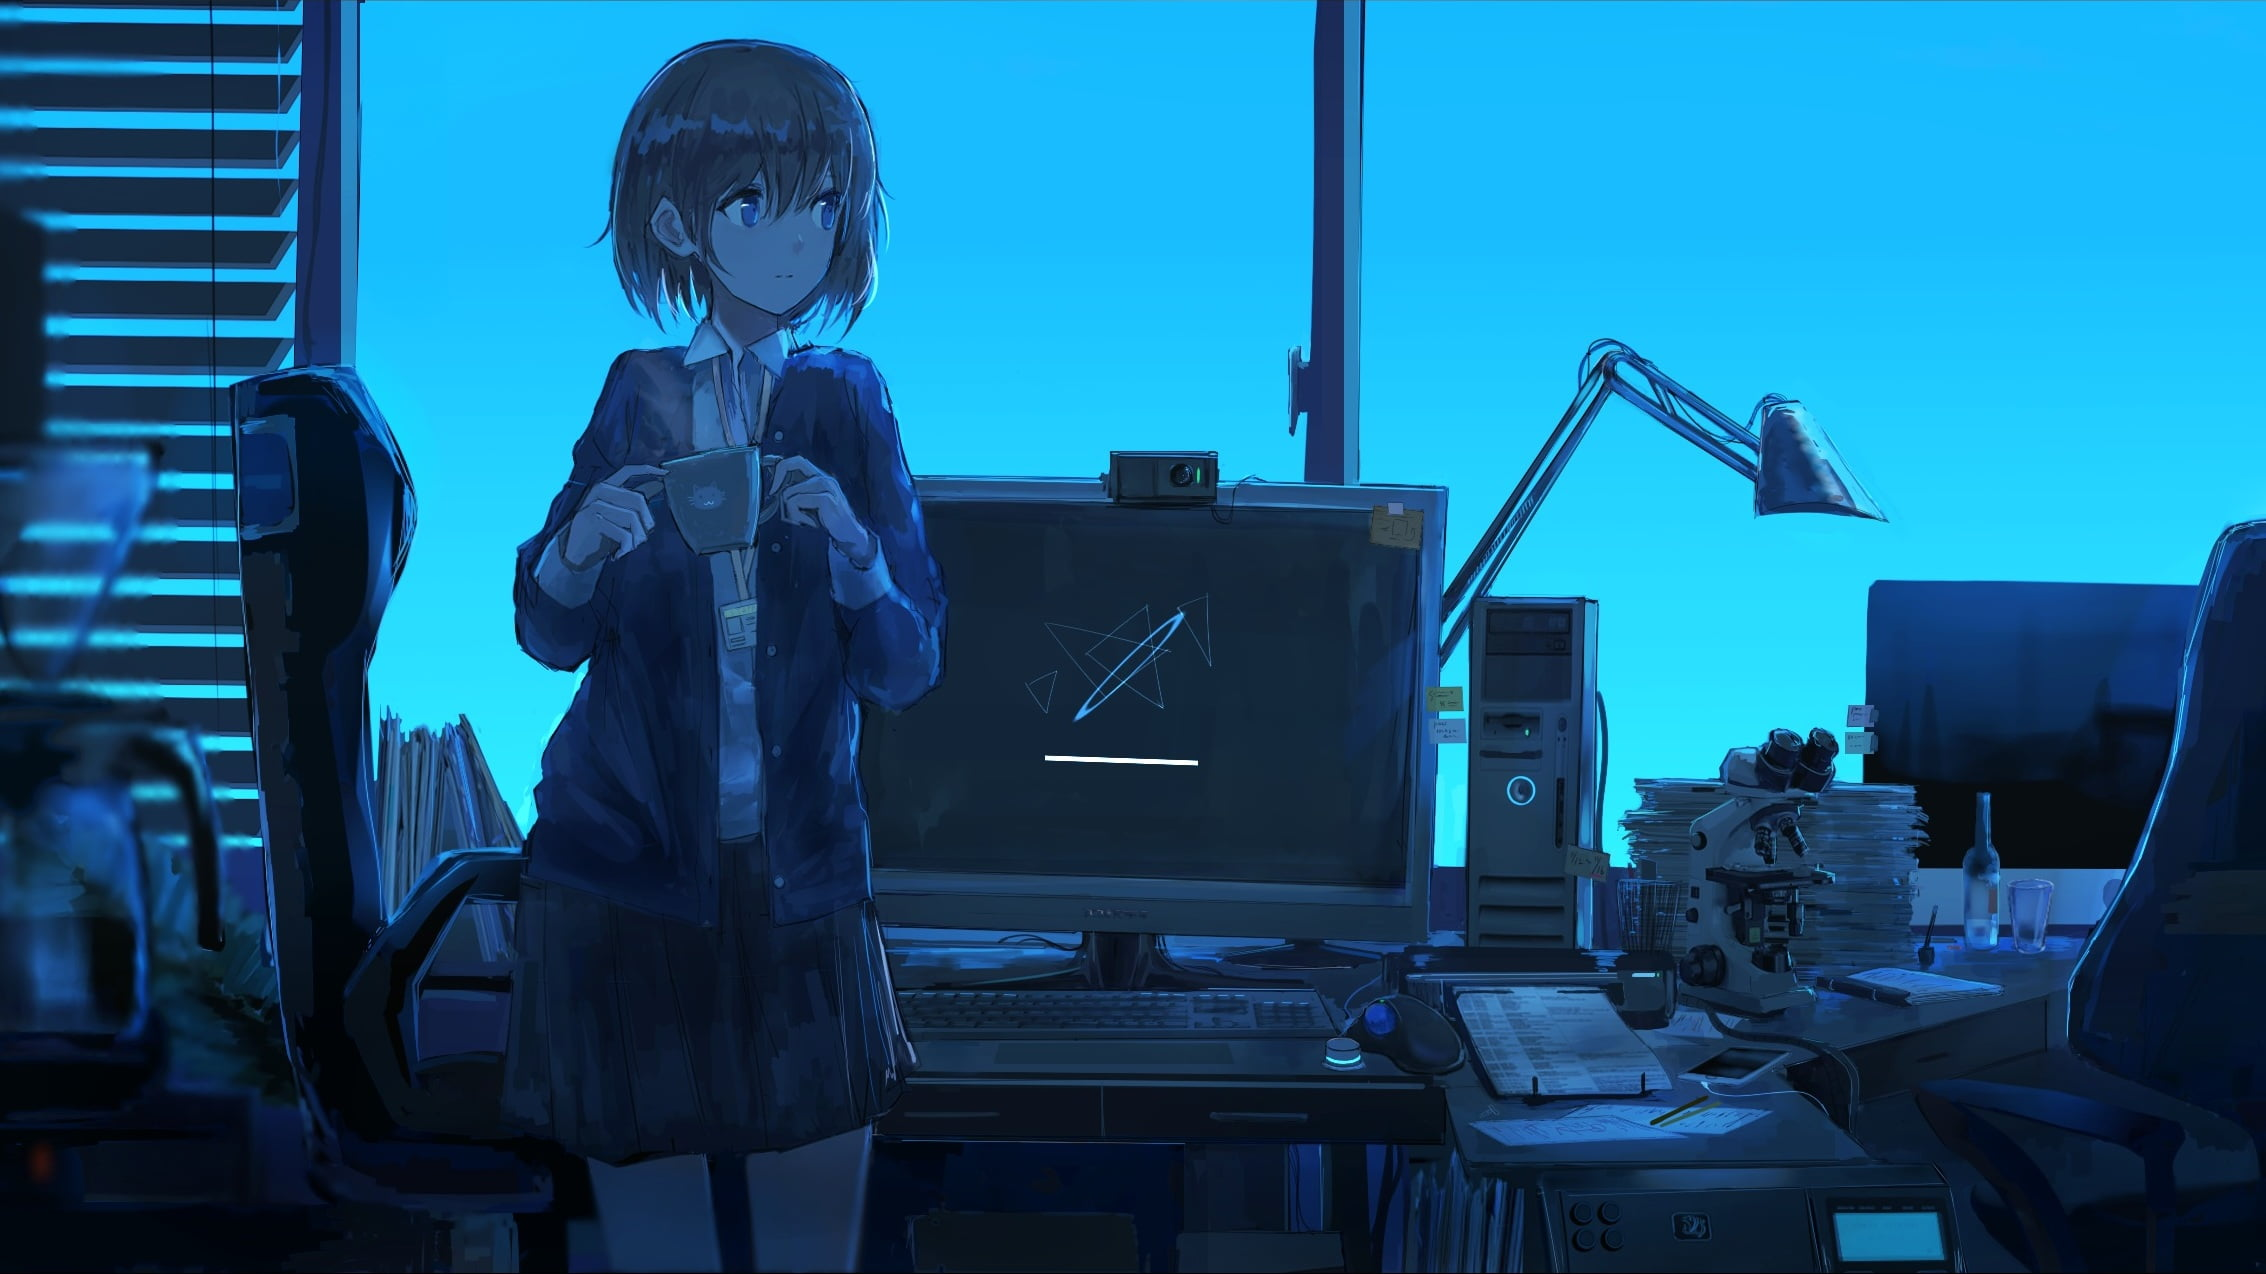
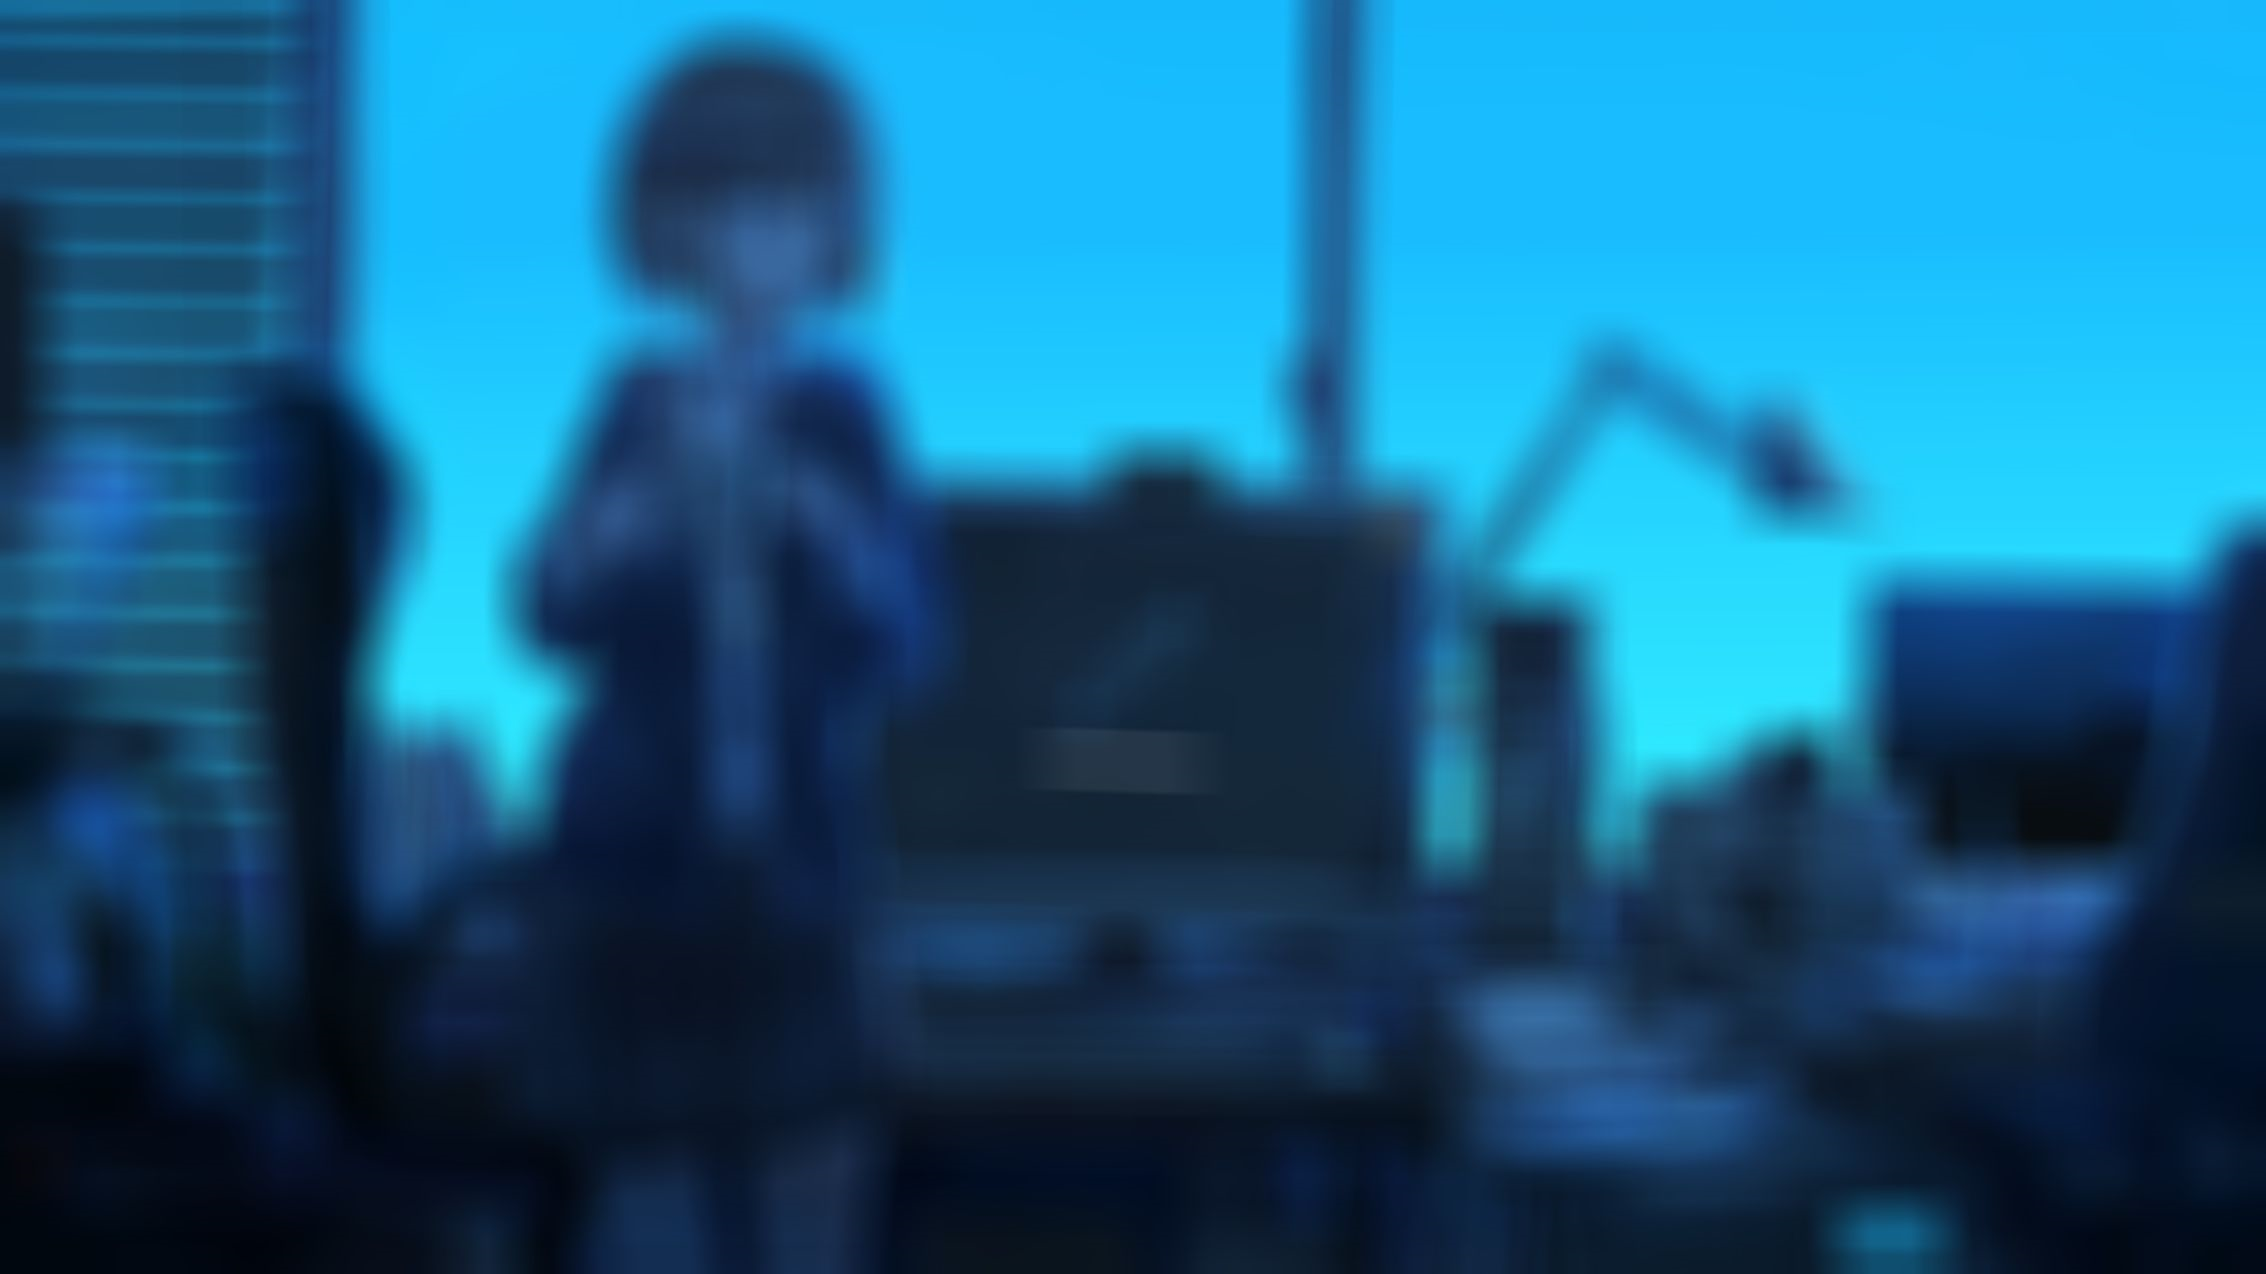
сделал сохранение

diff --git a/AppForImage/MainWindow.xaml b/AppForImage/MainWindow.xaml
@@ -10,7 +10,7 @@
         <Viewbox Stretch="Uniform">
             <Image x:Name="myImageBackground" Width="{Binding ElementName=window, Path=Width}" Height="{Binding ElementName=window, Path=Height}" HorizontalAlignment="Left" Margin="20,20,20,20" VerticalAlignment="Top" Stretch="Fill"/>
         </Viewbox>
-        <Button x:Name="myButtonBlur" Content="размытие" HorizontalAlignment="Left" Margin="5,0,0,5" VerticalAlignment="Bottom" RenderTransformOrigin="-3.786,0.741" Height="30" Width="90" Background="#FF674E4E" BorderBrush="{x:Null}" Foreground="#FFF6FF49" Click="Button_Click" FontSize="16" Opacity="0.2" MouseEnter="Button_MouseEnter" MouseLeave="myButtonBlur_MouseLeave"/>
+        <Button x:Name="myButtonBlur" Content="Сохранить" HorizontalAlignment="Left" Margin="5,0,0,5" VerticalAlignment="Bottom" RenderTransformOrigin="-3.786,0.741" Height="30" Width="90" Background="#FF674E4E" BorderBrush="{x:Null}" Foreground="#FFF6FF49" Click="Button_Click" FontSize="16" Opacity="0.2" MouseEnter="Button_MouseEnter" MouseLeave="myButtonBlur_MouseLeave"/>
         <Slider x:Name="mySlider" Width="120" Margin="0,0,5,5" Height="20" VerticalAlignment="Bottom" HorizontalAlignment="Right" Background="{x:Null}" BorderBrush="{x:Null}" Foreground="{x:Null}" ValueChanged="mySlider_ValueChanged" Minimum="1" Maximum="100" SmallChange="1" Value="1"/>
 
     </Grid>

diff --git a/AppForImage/MainWindow.xaml.cs b/AppForImage/MainWindow.xaml.cs
@@ -31,8 +31,6 @@ namespace AppForImage
         static string[] args = Environment.GetCommandLineArgs();
         string filepath = args[1];
         bool isCache = false;
-        int strokeAdd = 0;
-        int columnAdd = 0;
         static string pathCache = "C:/Users/Lancer/source/repos/AppForImage/AppForImage/Resources/myImage.jpg";
         Mat myMat = new Mat();
         Mat src = Cv2.ImRead(pathCache);
@@ -60,27 +58,14 @@ namespace AppForImage
         }
         private void Button_Click(object sender, RoutedEventArgs e)
         {
-            if (isCache)
-            {
-                MatBlur(strokeAdd, columnAdd);
-            } else
-            {
-                Bitmap myImage = new Bitmap(filepath);
-                myImage.Save(pathCache);
-                MatBlur(strokeAdd, columnAdd);
-                isCache = true;
-            }
-
+            //Bitmap myImage = new Bitmap(filepath);
+            Bitmap myImage = _controllerConvert.BitmapImage2Bitmap(bi);
+            myImage.Save(pathCache);
         }
         private void MatBlur(int stroke, int column)
         {
-            savedImage[i] = src;
-            if (i <= 10)
-            {
-                i++;
-            }
             Cv2.Blur(src, myMat, new OpenCvSharp.Size(stroke, column));
-            bi = _controllerConvert.MatToBitmap(myMat);
+            bi = _controllerConvert.MatToBitmapJpg(myMat);
             myImageBackground.Source = bi;
         }
 
@@ -96,8 +81,10 @@ namespace AppForImage
 
         private void mySlider_ValueChanged(object sender, RoutedPropertyChangedEventArgs<double> e)
         {
-            strokeAdd = Convert.ToInt32(mySlider.Value);
-            columnAdd = Convert.ToInt32(mySlider.Value);
+            int strokeAdd = Convert.ToInt32(mySlider.Value);
+            int columnAdd = Convert.ToInt32(mySlider.Value);
+            MatBlur(strokeAdd, columnAdd);
+
         }
 
         private void myWindow_PreviewKeyDown(object sender, KeyEventArgs e)
@@ -105,11 +92,6 @@ namespace AppForImage
             if (e.Key == Key.Z && e.KeyboardDevice.Modifiers == ModifierKeys.Control)
             {
                 // код при нажатии Ctrl+Z
-                if(i > 0)
-                {
-                    i--;
-                }
-                myImageBackground.Source = _controllerConvert.MatToBitmap(savedImage[i]);
             }
         }
     }

diff --git a/AppForImage/ControllerConvert.cs b/AppForImage/ControllerConvert.cs
@@ -1,6 +1,7 @@
 using OpenCvSharp;
 using System;
 using System.Collections.Generic;
+using System.Drawing;
 using System.IO;
 using System.Linq;
 using System.Text;
@@ -12,21 +13,41 @@ namespace AppForImage
 {
     internal class ControllerConvert
     {
-        public BitmapImage MatToBitmap(Mat matimg)
+        public BitmapImage MatToBitmapJpg(Mat matimg)
         {
             BitmapImage bmp = new BitmapImage();
             bmp.BeginInit();
-            bmp.StreamSource = new MemoryStream(MatToByteArray(matimg));
+            bmp.StreamSource = new MemoryStream(MatToByteArray(matimg, ".jpg"));
             bmp.EndInit();
             return bmp;
         }
-        private byte[] MatToByteArray(Mat mat)
+        public BitmapImage MatToBitmapPng(Mat matimg)
+        {
+            BitmapImage bmp = new BitmapImage();
+            bmp.BeginInit();
+            bmp.StreamSource = new MemoryStream(MatToByteArray(matimg, ".png"));
+            bmp.EndInit();
+            return bmp;
+        }
+        private byte[] MatToByteArray(Mat mat, string imageFormat)
         {
             List<byte> lstbyte = new List<byte>();
             byte[] btArr = lstbyte.ToArray();
             int[] param = new int[2] { 1, 80 };
-            Cv2.ImEncode(".jpg", mat, out btArr, param);
+            Cv2.ImEncode(imageFormat, mat, out btArr, param);
             return btArr;
+        }
+        public Bitmap BitmapImage2Bitmap(BitmapImage bitmapImage)
+        {
+            using (MemoryStream outStream = new MemoryStream())
+            {
+                BitmapEncoder enc = new BmpBitmapEncoder();
+                enc.Frames.Add(BitmapFrame.Create(bitmapImage));
+                enc.Save(outStream);
+                System.Drawing.Bitmap bitmap = new System.Drawing.Bitmap(outStream);
+
+                return new Bitmap(bitmap);
+            }
         }
     }
 }
